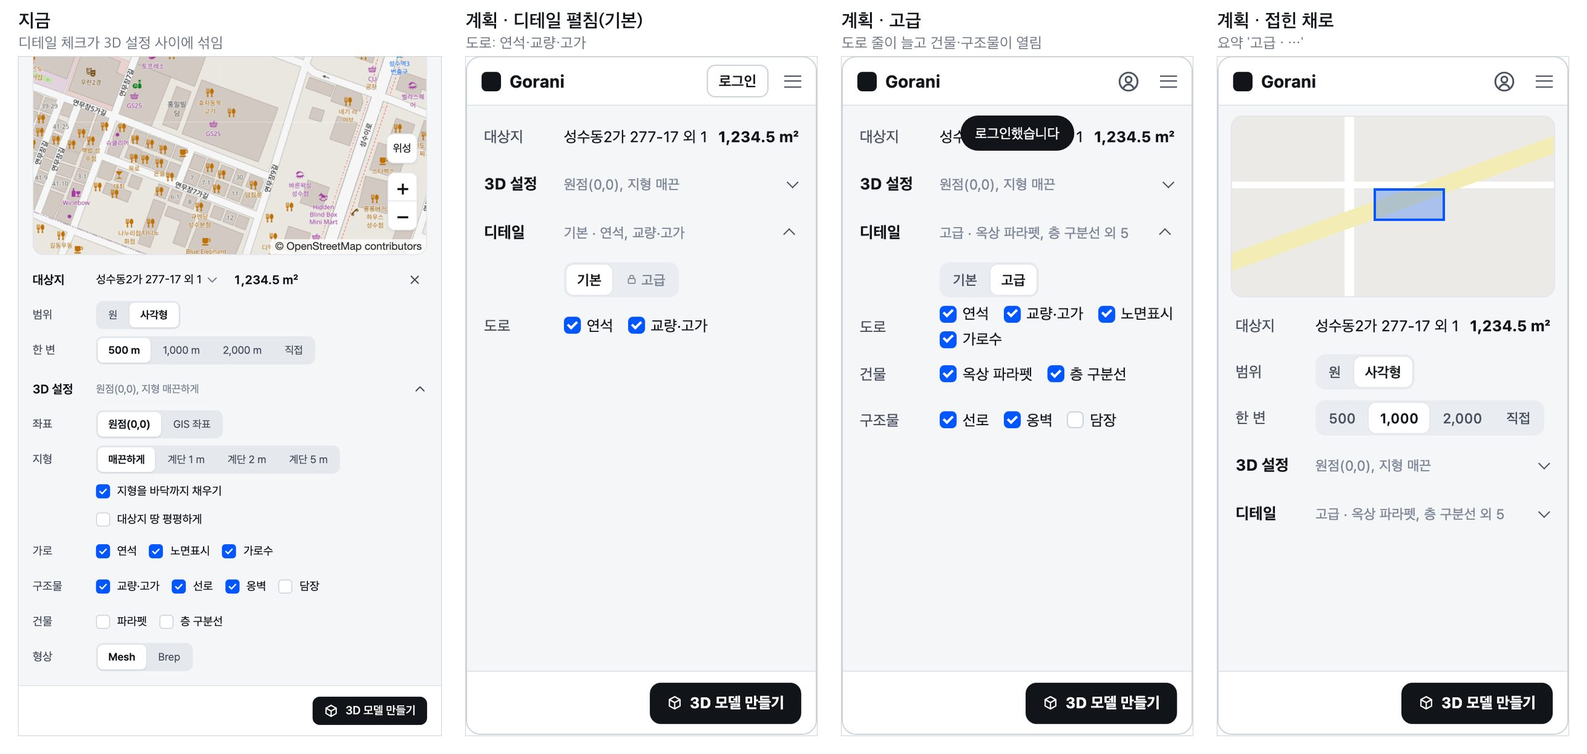
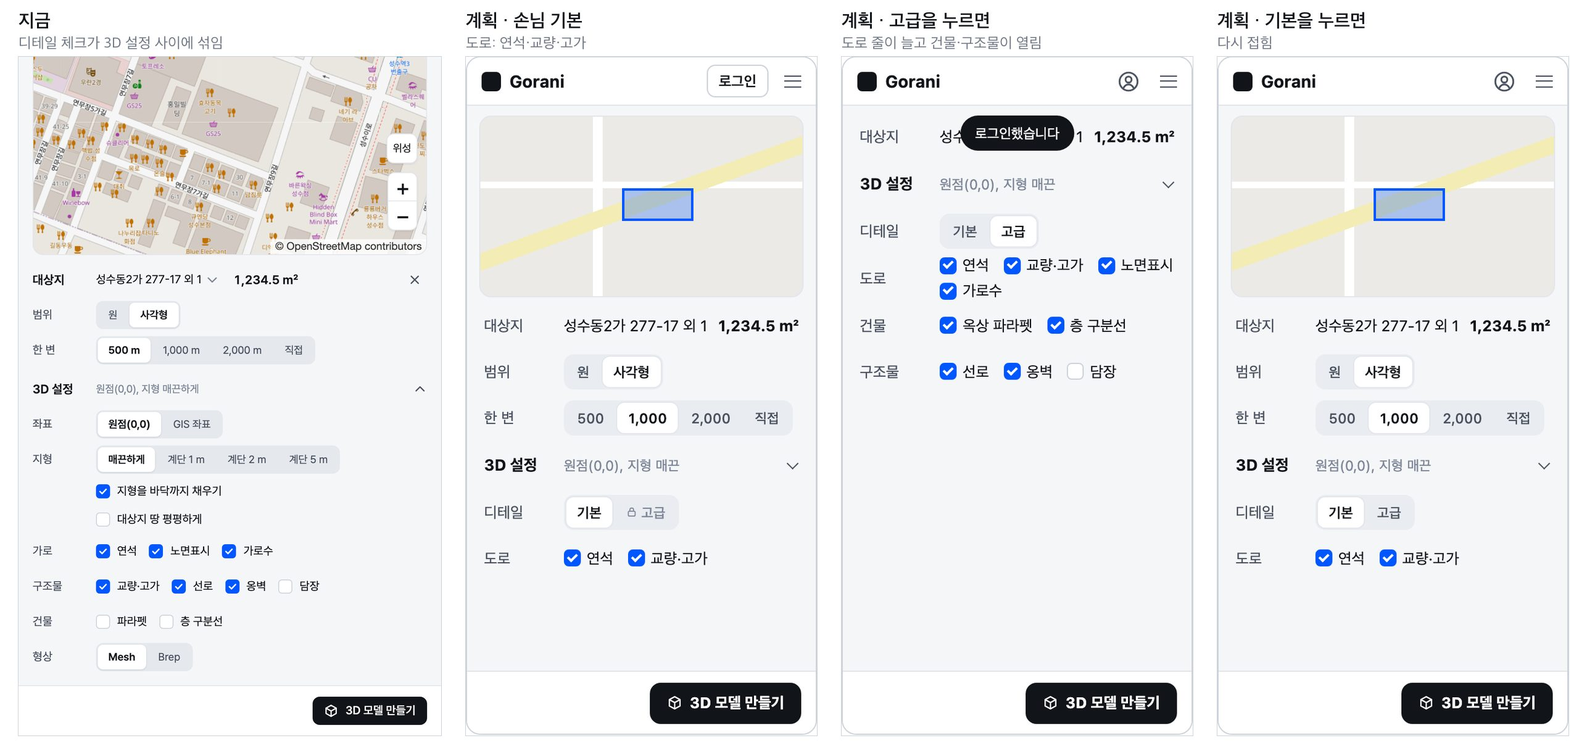
docs: 회원 계획 — 디테일 [기본 | 고급] 단추 자체가 펼치기(고급이면 늘고 기본이면 접힘, 따로 접는 단추 없음), 와이어프레임 v18

diff --git a/docs/preview/account/wireframe.html b/docs/preview/account/wireframe.html
@@ -205,6 +205,17 @@
   .pn .acpop .r .m { color: #7d8798; }
   .pn .hrow .st { flex: none; width: 26px; height: 26px; display: inline-grid; place-items: center; color: #aab2bd; font-size: 16px; }
   .pn .hrow .st.on { color: #111418; }
+</style><style>
+  .pn .hd .login.off { color: #aab2bd; border-color: #e3e6eb; }
+  .pn .hd .acct { width: 26px; height: 26px; display: inline-grid; place-items: center; color: #4a5260; margin-right: 6px; border-radius: 7px; }
+  .pn .hd .acct.on { background: #e9ecf0; color: #111418; }
+  .pn .acpop { position: absolute; right: 40px; top: 38px; width: 220px; background: #fff; border: 1px solid #e3e6eb; border-radius: 12px; box-shadow: 0 8px 24px rgba(0,0,0,.12); padding: 4px 0; z-index: 4; font-size: 12.5px; }
+  .pn .acpop .r { display: flex; align-items: center; gap: 8px; min-height: 38px; padding: 0 12px; }
+  .pn .acpop .r + .r { border-top: 1px solid #e3e6eb; }
+  .pn .acpop .r .v { flex: 1; min-width: 0; overflow: hidden; text-overflow: ellipsis; white-space: nowrap; }
+  .pn .acpop .r .m { color: #7d8798; }
+  .pn .hrow .st { flex: none; width: 26px; height: 26px; display: inline-grid; place-items: center; color: #aab2bd; font-size: 16px; }
+  .pn .hrow .st.on { color: #111418; }
 </style></head>
 <body>
 <svg width="0" height="0" style="position:absolute">
@@ -213,4 +224,4 @@
   <symbol id="cube" viewBox="0 0 16 16"><path d="M8 1.8l5.4 3v6.4L8 14.2l-5.4-3V4.8z M2.6 4.8L8 7.8l5.4-3 M8 7.8v6.4" fill="none" stroke="currentColor" stroke-width="1.4" stroke-linejoin="round"/></symbol>
 </svg>
 
-<h1>Gorani 회원·고급 디테일 — 와이어프레임 v17</h1><p class="lead">꾸밈과 안내 문구 없이 지금 패널의 줄·단추 꼴만 씁니다. 손님은 머리줄 [로그인], 회원은 그 자리에 계정 기호. 디테일은 3D 설정과 같은 접는 줄 — 펼쳐서 고급을 고르면 늘어납니다. 로딩·결과 화면은 지금 그대로.</p><h2>A. 고급 디테일</h2><div class="flow"><div class="step"><p class="cap">A1 손님 · 지도 화면</p><div class="pn"><div class="hd"><span class="logo"></span><span class="wm">Gorani</span><span class="login">로그인</span><span class="burger"></span></div><div class="map"><i></i></div><div class="tray" style="padding-top:4px"><div class="trow"><span class="lbl">대상지</span><span class="val">성수동2가 277-17 외 1</span><span class="area">1,234.5 m²</span></div><div class="trow"><span class="lbl">범위</span><span class="seg"><b>원</b><b class="on">사각형</b></span></div><div class="trow"><span class="lbl">한 변</span><span class="seg"><b>500</b><b class="on">1,000</b><b>2,000</b><b>직접</b></span></div><div class="sec"><span class="t">3D 설정</span><span class="s">원점(0,0), 지형 매끈</span><span class="chev"></span></div><div class="sec"><span class="t">디테일</span><span class="s">기본 · 연석, 교량·고가</span><span class="chev"></span></div></div><div class="foot"><span class="mk"><svg width="13" height="13"><use href="#cube"/></svg>3D 모델 만들기</span></div></div><p class="note">3D 설정 아래 '디테일'도 같은 접는 줄. 접힌 채로 지금 단계와 항목이 보입니다.</p></div><div class="step"><p class="cap">A2 디테일 펼침 · 손님</p><div class="pn"><div class="hd"><span class="logo"></span><span class="wm">Gorani</span><span class="login">로그인</span><span class="burger"></span></div><div class="tray" style="padding-top:6px"><div class="trow"><span class="lbl">대상지</span><span class="val">성수동2가 277-17 외 1</span><span class="area">1,234.5 m²</span></div><div class="sec"><span class="t">3D 설정</span><span class="s">원점(0,0), 지형 매끈</span><span class="chev"></span></div><div class="sec"><span class="t">디테일</span><span class="s">기본 · 연석, 교량·고가</span><span class="chev up"></span></div><div class="trow"><span class="lbl"></span><span class="seg"><b class="on">기본</b><b class="lkd"><svg width="10" height="10"><use href="#lock"/></svg>고급</b></span></div><div class="trow"><span class="lbl">도로</span><span class="chks"><span class="ck"><span class="box on"></span>연석</span><span class="ck"><span class="box on"></span>교량·고가</span></span></div></div><div class="foot"><span class="mk"><svg width="13" height="13"><use href="#cube"/></svg>3D 모델 만들기</span></div></div><p class="note">[기본 | 고급]과 도로(연석·교량·고가). 손님은 고급에 자물쇠만.</p></div><div class="step"><p class="cap">A3 고급(또는 머리줄 로그인)을 누르면</p><div class="pn"><div class="hd"><span class="logo"></span><span class="wm">Gorani</span><span class="login">로그인</span><span class="burger"></span></div><div class="tray" style="padding-top:6px"><div class="trow"><span class="lbl">대상지</span><span class="val">성수동2가 277-17 외 1</span><span class="area">1,234.5 m²</span></div><div class="sec"><span class="t">3D 설정</span><span class="s">원점(0,0), 지형 매끈</span><span class="chev"></span></div><div class="sec"><span class="t">디테일</span><span class="s">기본 · 연석, 교량·고가</span><span class="chev up"></span></div><div class="trow"><span class="lbl"></span><span class="seg"><b class="on">기본</b><b class="lkd"><svg width="10" height="10"><use href="#lock"/></svg>고급</b></span></div><div class="trow"><span class="lbl">도로</span><span class="chks"><span class="ck"><span class="box on"></span>연석</span><span class="ck"><span class="box on"></span>교량·고가</span></span></div></div><div class="foot"><span class="mk"><svg width="13" height="13"><use href="#cube"/></svg>3D 모델 만들기</span></div><div class="veil"><div class="dlg min"><span class="x">✕</span><h4>로그인</h4><div class="pbtn"><span class="gg"></span>구글로 로그인</div><div class="sbtn">로그인 없이 써 보기 (3회)</div></div></div></div><p class="note">로그인 창. 두 번째 단추는 고급에서 열었을 때만.</p></div><div class="step"><p class="cap">A4 브라우저에서 로그인</p><div class="pn"><div class="hd"><span class="logo"></span><span class="wm">Gorani</span><span class="login">로그인</span><span class="burger"></span></div><div class="tray" style="padding-top:6px"><div class="trow"><span class="lbl">대상지</span><span class="val">성수동2가 277-17 외 1</span><span class="area">1,234.5 m²</span></div><div class="sec"><span class="t">3D 설정</span><span class="s">원점(0,0), 지형 매끈</span><span class="chev"></span></div><div class="sec"><span class="t">디테일</span><span class="s">기본 · 연석, 교량·고가</span><span class="chev up"></span></div><div class="trow"><span class="lbl"></span><span class="seg"><b class="on">기본</b><b class="lkd"><svg width="10" height="10"><use href="#lock"/></svg>고급</b></span></div><div class="trow"><span class="lbl">도로</span><span class="chks"><span class="ck"><span class="box on"></span>연석</span><span class="ck"><span class="box on"></span>교량·고가</span></span></div></div><div class="foot"><span class="mk"><svg width="13" height="13"><use href="#cube"/></svg>3D 모델 만들기</span></div><div class="veil"><div class="dlg min" style="text-align:center"><div class="spin"></div><h4 style="margin:0 0 4px">브라우저에서 로그인 중</h4><div class="sbtn">취소</div></div></div></div><p class="note">로그인은 브라우저가 합니다.</p></div><div class="step"><p class="cap">A5 돌아오면 — 고급으로 늘어남</p><div class="pn"><div class="hd"><span class="logo"></span><span class="wm">Gorani</span><span class="acct"><svg width="18" height="18" viewBox="0 0 16 16" fill="none" stroke="currentColor" stroke-width="1.3"><circle cx="8" cy="8" r="6.6"/><circle cx="8" cy="6.5" r="2.2"/><path d="M4.4 12.4c.9-1.5 2.1-2.3 3.6-2.3s2.7.8 3.6 2.3" stroke-linecap="round"/></svg></span><span class="burger"></span></div><div class="tray" style="padding-top:6px"><div class="trow"><span class="lbl">대상지</span><span class="val">성수동2가 277-17 외 1</span><span class="area">1,234.5 m²</span></div><div class="sec"><span class="t">3D 설정</span><span class="s">원점(0,0), 지형 매끈</span><span class="chev"></span></div><div class="sec"><span class="t">디테일</span><span class="s">고급 · 옥상 파라펫, 층 구분선 외 5</span><span class="chev up"></span></div><div class="trow"><span class="lbl"></span><span class="seg"><b>기본</b><b class="on">고급</b></span></div><div class="trow"><span class="lbl">도로</span><span class="chks"><span class="ck"><span class="box on"></span>연석</span><span class="ck"><span class="box on"></span>교량·고가</span><span class="ck"><span class="box on"></span>노면표시</span><span class="ck"><span class="box on"></span>가로수</span></span></div><div class="trow"><span class="lbl">건물</span><span class="chks"><span class="ck"><span class="box on"></span>옥상 파라펫</span><span class="ck"><span class="box on"></span>층 구분선</span></span></div><div class="trow"><span class="lbl">구조물</span><span class="chks"><span class="ck"><span class="box on"></span>선로</span><span class="ck"><span class="box on"></span>옹벽</span><span class="ck"><span class="box"></span>담장</span></span></div></div><div class="foot"><span class="mk"><svg width="13" height="13"><use href="#cube"/></svg>3D 모델 만들기</span></div><div class="toast">로그인했습니다</div></div><p class="note">도로 줄에 노면표시·가로수가 붙고 건물·구조물 줄이 아래로 열립니다.</p></div><div class="step"><p class="cap">A6 회원 · 기본으로 펼침</p><div class="pn"><div class="hd"><span class="logo"></span><span class="wm">Gorani</span><span class="acct"><svg width="18" height="18" viewBox="0 0 16 16" fill="none" stroke="currentColor" stroke-width="1.3"><circle cx="8" cy="8" r="6.6"/><circle cx="8" cy="6.5" r="2.2"/><path d="M4.4 12.4c.9-1.5 2.1-2.3 3.6-2.3s2.7.8 3.6 2.3" stroke-linecap="round"/></svg></span><span class="burger"></span></div><div class="tray" style="padding-top:6px"><div class="trow"><span class="lbl">대상지</span><span class="val">성수동2가 277-17 외 1</span><span class="area">1,234.5 m²</span></div><div class="sec"><span class="t">3D 설정</span><span class="s">원점(0,0), 지형 매끈</span><span class="chev"></span></div><div class="sec"><span class="t">디테일</span><span class="s">기본 · 연석, 교량·고가</span><span class="chev up"></span></div><div class="trow"><span class="lbl"></span><span class="seg"><b class="on">기본</b><b>고급</b></span></div><div class="trow"><span class="lbl">도로</span><span class="chks"><span class="ck"><span class="box on"></span>연석</span><span class="ck"><span class="box on"></span>교량·고가</span></span></div></div><div class="foot"><span class="mk"><svg width="13" height="13"><use href="#cube"/></svg>3D 모델 만들기</span></div></div><p class="note">기본을 고르면 도로(연석·교량·고가)만 남습니다.</p></div><div class="step"><p class="cap">A7 회원 · 접힌 채로</p><div class="pn"><div class="hd"><span class="logo"></span><span class="wm">Gorani</span><span class="acct"><svg width="18" height="18" viewBox="0 0 16 16" fill="none" stroke="currentColor" stroke-width="1.3"><circle cx="8" cy="8" r="6.6"/><circle cx="8" cy="6.5" r="2.2"/><path d="M4.4 12.4c.9-1.5 2.1-2.3 3.6-2.3s2.7.8 3.6 2.3" stroke-linecap="round"/></svg></span><span class="burger"></span></div><div class="map"><i></i></div><div class="tray" style="padding-top:4px"><div class="trow"><span class="lbl">대상지</span><span class="val">성수동2가 277-17 외 1</span><span class="area">1,234.5 m²</span></div><div class="trow"><span class="lbl">범위</span><span class="seg"><b>원</b><b class="on">사각형</b></span></div><div class="trow"><span class="lbl">한 변</span><span class="seg"><b>500</b><b class="on">1,000</b><b>2,000</b><b>직접</b></span></div><div class="sec"><span class="t">3D 설정</span><span class="s">원점(0,0), 지형 매끈</span><span class="chev"></span></div><div class="sec"><span class="t">디테일</span><span class="s">고급 · 옥상 파라펫, 층 구분선 외 5</span><span class="chev"></span></div></div><div class="foot"><span class="mk"><svg width="13" height="13"><use href="#cube"/></svg>3D 모델 만들기</span></div></div><p class="note">접어도 요약에 '고급 · …'.</p></div></div><h2>B. 처음 만들기·로딩·완료</h2><div class="flow"><div class="step"><p class="cap">B1 처음 [3D 모델 만들기] (한 번만)</p><div class="pn"><div class="hd"><span class="logo"></span><span class="wm">Gorani</span><span class="login">로그인</span><span class="burger"></span></div><div class="map"><i></i></div><div class="tray" style="padding-top:4px"><div class="trow"><span class="lbl">대상지</span><span class="val">성수동2가 277-17 외 1</span><span class="area">1,234.5 m²</span></div><div class="trow"><span class="lbl">범위</span><span class="seg"><b>원</b><b class="on">사각형</b></span></div><div class="trow"><span class="lbl">한 변</span><span class="seg"><b>500</b><b class="on">1,000</b><b>2,000</b><b>직접</b></span></div><div class="sec"><span class="t">3D 설정</span><span class="s">원점(0,0), 지형 매끈</span><span class="chev"></span></div><div class="sec"><span class="t">디테일</span><span class="s">기본 · 연석, 교량·고가</span><span class="chev"></span></div></div><div class="foot"><span class="mk"><svg width="13" height="13"><use href="#cube"/></svg>3D 모델 만들기</span></div><div class="veil"><div class="dlg min"><span class="x">✕</span><h4>로그인</h4><div class="pbtn"><span class="gg"></span>구글로 로그인</div><div class="sbtn">로그인 없이 만들기</div></div></div></div><p class="note">같은 로그인 창. 고르면 바로 만듭니다.</p></div><div class="step"><p class="cap">B2 로딩 · 지금 화면 그대로</p><div class="pn"><div class="hd"><span class="logo"></span><span class="wm">Gorani</span><span class="login off">로그인</span><span class="burger"></span></div><div class="runcard"><div class="top"><h4>3D 모델 만드는 중</h4><span class="cancel"><i></i>취소</span></div><div class="meta">성수동2가 277-17 외 1, 1,234.5 m², 사각형 한 변 2,000 m · 기본</div><div class="trk"><div class="fl" style="width:50%"></div><span class="rn" style="left:calc((100% - 48px) * 0.5)"><svg xmlns="http://www.w3.org/2000/svg" width="48" height="36" viewBox="0 0 64 48"><g fill="none" stroke="currentColor" stroke-linecap="round" stroke-linejoin="round"><path d="M21.00 25.60L15.89 34.19" stroke-width="5"/><path d="M15.89 34.19L2.92 35.15" stroke-width="2.6"/><path d="M41.00 27.60L46.03 35.06" stroke-width="3.6"/><path d="M46.03 35.06L52.74 45.01" stroke-width="2.4"/><path d="M21.00 25.60L14.84 33.48" stroke-width="5"/><path d="M14.84 33.48L2.97 38.77" stroke-width="2.6"/><path d="M41.00 27.60L47.02 34.29" stroke-width="3.6"/><path d="M47.02 34.29L55.05 43.21" stroke-width="2.4"/></g><g fill="currentColor" transform="translate(0 1.60)"><path d="M13 21C13 14 20 11 27 13C33 15 39 17 44 19C49 21 49 29 43 30.5C35 32 26 31 19 29.5C15 28.5 13 25 13 21Z"/><path d="M40 21C43 15 47 11 51 9L56 13C52 17 48 23 46 29Z"/><path d="M49 7C53 4.5 58 6.5 62 11C63.5 13 62.5 15 60.5 15H54C50.5 15 48 11.5 49 7Z"/><path d="M51 8C49 3 45.5 0 42 0.5C42 4 45 8 49.5 11Z"/><path d="M14 17C12 14.5 11 12.5 11.5 11C13.5 12 15 14 16 16Z"/></g></svg></span></div><div class="pm"><span><b>50</b> %</span><span>0:14</span></div><ul class="ph"><li><span class="okk">✓</span>건물과 지형 불러오기<span class="det">건물 1,842동</span></li><li class="run"><span class="dot"></span>3D 모델 만들기</li><li class="pend"><span class="ring"></span>Rhino 파일에 넣기</li></ul><div class="rnote">Rhino 안에서 만들어 Rhino 화면이 잠깐씩 멈출 수 있습니다.</div></div><div class="logline">▸ 로그 자세히 보기 (1줄)</div></div><p class="note">만드는 동안 패널은 엔진을 기다려 다른 단추를 받지 않습니다 — 머리줄 [로그인]도 잠깁니다.</p></div><div class="step"><p class="cap">B3 생성 완료 — 지금과 같음</p><div class="pn"><div class="hd"><span class="logo"></span><span class="wm">Gorani</span><span class="login">로그인</span><span class="burger"></span></div><div class="card2"><h4>3D 모델 생성 완료 <span class="m">0:08</span><span class="sp"></span><span class="btnw" style="margin:0">폴더 열기</span></h4><div class="m">성수동2가 277-17 외 1, 1,234.5 m²</div></div><div class="card2"><h4>2D 자료도 만들까요?<span class="sp"></span><span class="btnw" style="margin:0">2D 자료 만들기</span></h4><div class="opt2"><span>▢</span><span>베이스맵<small>Illustrator 레이어 도면 (.ai)</small></span></div><div class="opt2"><span>▦</span><span>다이어그램<small>현황도와 분석도 (.svg, .ai)</small></span></div><div class="opt2"><span>▤</span><span>조서<small>필지와 건축물 표 (엑셀 CSV)</small></span></div></div></div><p class="note">결과 화면은 그대로. 손님이면 머리줄 [로그인]만.</p></div></div><h2>C. 생성 기록 — 회원만</h2><div class="flow"><div class="step"><p class="cap">C1 손님 · 지도(대상지 없음)</p><div class="pn"><div class="hd"><span class="logo"></span><span class="wm">Gorani</span><span class="login">로그인</span><span class="burger"></span></div><div class="map"></div><div class="tray"><div class="rech">최근 결과<span class="sp"></span></div><div class="rec"><span class="nm">성수동2가 277-17 외 1</span><span class="mt">3D, 2D · 11-14</span></div><div class="rec"><span class="nm">을지로3가 구역</span><span class="mt">3D · 11-14</span></div><div class="rec"><span class="nm">Shibuya, Tokyo</span><span class="mt">3D · 11-10</span></div></div><div class="foot"><span class="mk" style="opacity:.45"><svg width="13" height="13"><use href="#cube"/></svg>3D 모델 만들기</span></div></div><p class="note">손님에게는 생성 기록이 없습니다. '최근 결과'(지금 기능)는 그대로.</p></div><div class="step"><p class="cap">C2 회원 · 지도(대상지 없음)</p><div class="pn"><div class="hd"><span class="logo"></span><span class="wm">Gorani</span><span class="acct"><svg width="18" height="18" viewBox="0 0 16 16" fill="none" stroke="currentColor" stroke-width="1.3"><circle cx="8" cy="8" r="6.6"/><circle cx="8" cy="6.5" r="2.2"/><path d="M4.4 12.4c.9-1.5 2.1-2.3 3.6-2.3s2.7.8 3.6 2.3" stroke-linecap="round"/></svg></span><span class="burger"></span></div><div class="map"></div><div class="tray"><div class="rech">최근 결과<span class="sp"></span><a>생성 기록 ›</a></div><div class="rec"><span class="nm">성수동2가 277-17 외 1</span><span class="mt">3D, 2D · 11-14</span></div><div class="rec"><span class="nm">을지로3가 구역</span><span class="mt">3D · 11-14</span></div><div class="rec"><span class="nm">Shibuya, Tokyo</span><span class="mt">3D · 11-10</span></div></div><div class="foot"><span class="mk" style="opacity:.45"><svg width="13" height="13"><use href="#cube"/></svg>3D 모델 만들기</span></div></div><p class="note">회원에게만 '생성 기록 ›'.</p></div><div class="step"><p class="cap">C3 회원 · 생성 기록</p><div class="pn"><div class="hd"><span class="logo"></span><span class="wm">Gorani</span><span class="acct"><svg width="18" height="18" viewBox="0 0 16 16" fill="none" stroke="currentColor" stroke-width="1.3"><circle cx="8" cy="8" r="6.6"/><circle cx="8" cy="6.5" r="2.2"/><path d="M4.4 12.4c.9-1.5 2.1-2.3 3.6-2.3s2.7.8 3.6 2.3" stroke-linecap="round"/></svg></span><span class="burger"></span></div><div class="scr"><span class="back">← 지도로</span><span class="ttl">생성 기록</span></div><div class="segw" style="margin-top:10px"><span class="seg"><b class="on">전체</b><b>★</b></span></div><div class="grpd">오늘</div><div class="hrow"><span class="th"><i></i></span><span class="tx"><div class="nm">성수동2가 277-17 외 1</div><div class="mt">15:02 · 사각형 1 km · 고급</div></span><span class="st on">★</span></div><div class="hrow"><span class="th"><i></i></span><span class="tx"><div class="nm">을지로3가 구역</div><div class="mt">11:40 · 사각형 2 km · 기본</div></span><span class="st">☆</span></div><div class="grpd">이번 주</div><div class="hrow"><span class="th"><i></i></span><span class="tx"><div class="nm">연남동 239-5</div><div class="mt">11-09 · 원 500 m · 고급</div></span><span class="st">☆</span></div><div class="hrow"><span class="th"><i></i></span><span class="tx"><div class="nm">Shibuya, Tokyo</div><div class="mt">11-10 · 사각형 1 km · 기본</div></span><span class="st on">★</span></div></div><p class="note">검색 없음. 기록마다 오른쪽 ☆로 즐겨찾기, 위 [전체 | ★]로 거르기. PC 구분 없이 아이디 하나에 모은 기록.</p></div></div><h2>D. 계정</h2><div class="flow"><div class="step"><p class="cap">D1 회원 · 계정 기호를 누르면</p><div class="pn"><div class="hd"><span class="logo"></span><span class="wm">Gorani</span><span class="acct on"><svg width="18" height="18" viewBox="0 0 16 16" fill="none" stroke="currentColor" stroke-width="1.3"><circle cx="8" cy="8" r="6.6"/><circle cx="8" cy="6.5" r="2.2"/><path d="M4.4 12.4c.9-1.5 2.1-2.3 3.6-2.3s2.7.8 3.6 2.3" stroke-linecap="round"/></svg></span><span class="burger"></span></div><div class="map"><i></i></div><div class="tray" style="padding-top:4px"><div class="trow"><span class="lbl">대상지</span><span class="val">성수동2가 277-17 외 1</span><span class="area">1,234.5 m²</span></div><div class="trow"><span class="lbl">범위</span><span class="seg"><b>원</b><b class="on">사각형</b></span></div><div class="trow"><span class="lbl">한 변</span><span class="seg"><b>500</b><b class="on">1,000</b><b>2,000</b><b>직접</b></span></div><div class="sec"><span class="t">3D 설정</span><span class="s">원점(0,0), 지형 매끈</span><span class="chev"></span></div><div class="sec"><span class="t">디테일</span><span class="s">고급 · 옥상 파라펫, 층 구분선 외 5</span><span class="chev"></span></div></div><div class="foot"><span class="mk"><svg width="13" height="13"><use href="#cube"/></svg>3D 모델 만들기</span></div><div class="acpop"><div class="r"><span class="v">name@gmail.com</span><span class="btnw" style="margin:0">로그아웃</span></div><div class="r"><span class="v">생성 기록</span><span class="m">23 ›</span></div></div></div><p class="note">메일·[로그아웃]과 생성 기록. 더보기 메뉴(설정·도움)는 지금과 같습니다.</p></div></div></body></html>
+<h1>Gorani 회원·고급 디테일 — 와이어프레임 v18</h1><p class="lead">꾸밈과 안내 문구 없이 지금 패널의 줄·단추 꼴만 씁니다. 손님은 머리줄 [로그인], 회원은 그 자리에 계정 기호. 디테일 줄은 [기본 | 고급] 단추 그 자체 — 고급을 고르면 늘어나고 기본을 고르면 접힙니다. 로딩·결과 화면은 지금 그대로.</p><h2>A. 고급 디테일</h2><div class="flow"><div class="step"><p class="cap">A1 손님 · 지도 화면</p><div class="pn"><div class="hd"><span class="logo"></span><span class="wm">Gorani</span><span class="login">로그인</span><span class="burger"></span></div><div class="map"><i></i></div><div class="tray" style="padding-top:4px"><div class="trow"><span class="lbl">대상지</span><span class="val">성수동2가 277-17 외 1</span><span class="area">1,234.5 m²</span></div><div class="trow"><span class="lbl">범위</span><span class="seg"><b>원</b><b class="on">사각형</b></span></div><div class="trow"><span class="lbl">한 변</span><span class="seg"><b>500</b><b class="on">1,000</b><b>2,000</b><b>직접</b></span></div><div class="sec"><span class="t">3D 설정</span><span class="s">원점(0,0), 지형 매끈</span><span class="chev"></span></div><div class="trow"><span class="lbl">디테일</span><span class="seg"><b class="on">기본</b><b class="lkd"><svg width="10" height="10"><use href="#lock"/></svg>고급</b></span></div><div class="trow"><span class="lbl">도로</span><span class="chks"><span class="ck"><span class="box on"></span>연석</span><span class="ck"><span class="box on"></span>교량·고가</span></span></div></div><div class="foot"><span class="mk"><svg width="13" height="13"><use href="#cube"/></svg>3D 모델 만들기</span></div></div><p class="note">디테일 줄 = [기본 | 고급] 단추 그 자체. 기본이면 도로(연석·교량·고가)만. 손님은 고급에 자물쇠.</p></div><div class="step"><p class="cap">A2 고급(또는 머리줄 로그인)을 누르면</p><div class="pn"><div class="hd"><span class="logo"></span><span class="wm">Gorani</span><span class="login">로그인</span><span class="burger"></span></div><div class="map"><i></i></div><div class="tray" style="padding-top:4px"><div class="trow"><span class="lbl">대상지</span><span class="val">성수동2가 277-17 외 1</span><span class="area">1,234.5 m²</span></div><div class="trow"><span class="lbl">범위</span><span class="seg"><b>원</b><b class="on">사각형</b></span></div><div class="trow"><span class="lbl">한 변</span><span class="seg"><b>500</b><b class="on">1,000</b><b>2,000</b><b>직접</b></span></div><div class="sec"><span class="t">3D 설정</span><span class="s">원점(0,0), 지형 매끈</span><span class="chev"></span></div><div class="trow"><span class="lbl">디테일</span><span class="seg"><b class="on">기본</b><b class="lkd"><svg width="10" height="10"><use href="#lock"/></svg>고급</b></span></div><div class="trow"><span class="lbl">도로</span><span class="chks"><span class="ck"><span class="box on"></span>연석</span><span class="ck"><span class="box on"></span>교량·고가</span></span></div></div><div class="foot"><span class="mk"><svg width="13" height="13"><use href="#cube"/></svg>3D 모델 만들기</span></div><div class="veil"><div class="dlg min"><span class="x">✕</span><h4>로그인</h4><div class="pbtn"><span class="gg"></span>구글로 로그인</div><div class="sbtn">로그인 없이 써 보기 (3회)</div></div></div></div><p class="note">로그인 창. 두 번째 단추는 고급에서 열었을 때만.</p></div><div class="step"><p class="cap">A3 브라우저에서 로그인</p><div class="pn"><div class="hd"><span class="logo"></span><span class="wm">Gorani</span><span class="login">로그인</span><span class="burger"></span></div><div class="map"><i></i></div><div class="tray" style="padding-top:4px"><div class="trow"><span class="lbl">대상지</span><span class="val">성수동2가 277-17 외 1</span><span class="area">1,234.5 m²</span></div><div class="trow"><span class="lbl">범위</span><span class="seg"><b>원</b><b class="on">사각형</b></span></div><div class="trow"><span class="lbl">한 변</span><span class="seg"><b>500</b><b class="on">1,000</b><b>2,000</b><b>직접</b></span></div><div class="sec"><span class="t">3D 설정</span><span class="s">원점(0,0), 지형 매끈</span><span class="chev"></span></div><div class="trow"><span class="lbl">디테일</span><span class="seg"><b class="on">기본</b><b class="lkd"><svg width="10" height="10"><use href="#lock"/></svg>고급</b></span></div><div class="trow"><span class="lbl">도로</span><span class="chks"><span class="ck"><span class="box on"></span>연석</span><span class="ck"><span class="box on"></span>교량·고가</span></span></div></div><div class="foot"><span class="mk"><svg width="13" height="13"><use href="#cube"/></svg>3D 모델 만들기</span></div><div class="veil"><div class="dlg min" style="text-align:center"><div class="spin"></div><h4 style="margin:0 0 4px">브라우저에서 로그인 중</h4><div class="sbtn">취소</div></div></div></div><p class="note">로그인은 브라우저가 합니다.</p></div><div class="step"><p class="cap">A4 돌아오면 — 고급으로 늘어남</p><div class="pn"><div class="hd"><span class="logo"></span><span class="wm">Gorani</span><span class="acct"><svg width="18" height="18" viewBox="0 0 16 16" fill="none" stroke="currentColor" stroke-width="1.3"><circle cx="8" cy="8" r="6.6"/><circle cx="8" cy="6.5" r="2.2"/><path d="M4.4 12.4c.9-1.5 2.1-2.3 3.6-2.3s2.7.8 3.6 2.3" stroke-linecap="round"/></svg></span><span class="burger"></span></div><div class="tray" style="padding-top:6px"><div class="trow"><span class="lbl">대상지</span><span class="val">성수동2가 277-17 외 1</span><span class="area">1,234.5 m²</span></div><div class="sec"><span class="t">3D 설정</span><span class="s">원점(0,0), 지형 매끈</span><span class="chev"></span></div><div class="trow"><span class="lbl">디테일</span><span class="seg"><b>기본</b><b class="on">고급</b></span></div><div class="trow"><span class="lbl">도로</span><span class="chks"><span class="ck"><span class="box on"></span>연석</span><span class="ck"><span class="box on"></span>교량·고가</span><span class="ck"><span class="box on"></span>노면표시</span><span class="ck"><span class="box on"></span>가로수</span></span></div><div class="trow"><span class="lbl">건물</span><span class="chks"><span class="ck"><span class="box on"></span>옥상 파라펫</span><span class="ck"><span class="box on"></span>층 구분선</span></span></div><div class="trow"><span class="lbl">구조물</span><span class="chks"><span class="ck"><span class="box on"></span>선로</span><span class="ck"><span class="box on"></span>옹벽</span><span class="ck"><span class="box"></span>담장</span></span></div></div><div class="foot"><span class="mk"><svg width="13" height="13"><use href="#cube"/></svg>3D 모델 만들기</span></div><div class="toast">로그인했습니다</div></div><p class="note">고급이 눌리면 도로 줄에 노면표시·가로수가 붙고 건물·구조물 줄이 아래로 열립니다(트레이는 지금처럼 스크롤).</p></div><div class="step"><p class="cap">A5 회원 · 기본을 누르면 접힘</p><div class="pn"><div class="hd"><span class="logo"></span><span class="wm">Gorani</span><span class="acct"><svg width="18" height="18" viewBox="0 0 16 16" fill="none" stroke="currentColor" stroke-width="1.3"><circle cx="8" cy="8" r="6.6"/><circle cx="8" cy="6.5" r="2.2"/><path d="M4.4 12.4c.9-1.5 2.1-2.3 3.6-2.3s2.7.8 3.6 2.3" stroke-linecap="round"/></svg></span><span class="burger"></span></div><div class="map"><i></i></div><div class="tray" style="padding-top:4px"><div class="trow"><span class="lbl">대상지</span><span class="val">성수동2가 277-17 외 1</span><span class="area">1,234.5 m²</span></div><div class="trow"><span class="lbl">범위</span><span class="seg"><b>원</b><b class="on">사각형</b></span></div><div class="trow"><span class="lbl">한 변</span><span class="seg"><b>500</b><b class="on">1,000</b><b>2,000</b><b>직접</b></span></div><div class="sec"><span class="t">3D 설정</span><span class="s">원점(0,0), 지형 매끈</span><span class="chev"></span></div><div class="trow"><span class="lbl">디테일</span><span class="seg"><b class="on">기본</b><b>고급</b></span></div><div class="trow"><span class="lbl">도로</span><span class="chks"><span class="ck"><span class="box on"></span>연석</span><span class="ck"><span class="box on"></span>교량·고가</span></span></div></div><div class="foot"><span class="mk"><svg width="13" height="13"><use href="#cube"/></svg>3D 모델 만들기</span></div></div><p class="note">기본 = 접힌 상태. 따로 펼치기 단추가 없습니다.</p></div></div><h2>B. 처음 만들기·로딩·완료</h2><div class="flow"><div class="step"><p class="cap">B1 처음 [3D 모델 만들기] (한 번만)</p><div class="pn"><div class="hd"><span class="logo"></span><span class="wm">Gorani</span><span class="login">로그인</span><span class="burger"></span></div><div class="map"><i></i></div><div class="tray" style="padding-top:4px"><div class="trow"><span class="lbl">대상지</span><span class="val">성수동2가 277-17 외 1</span><span class="area">1,234.5 m²</span></div><div class="trow"><span class="lbl">범위</span><span class="seg"><b>원</b><b class="on">사각형</b></span></div><div class="trow"><span class="lbl">한 변</span><span class="seg"><b>500</b><b class="on">1,000</b><b>2,000</b><b>직접</b></span></div><div class="sec"><span class="t">3D 설정</span><span class="s">원점(0,0), 지형 매끈</span><span class="chev"></span></div><div class="trow"><span class="lbl">디테일</span><span class="seg"><b class="on">기본</b><b class="lkd"><svg width="10" height="10"><use href="#lock"/></svg>고급</b></span></div><div class="trow"><span class="lbl">도로</span><span class="chks"><span class="ck"><span class="box on"></span>연석</span><span class="ck"><span class="box on"></span>교량·고가</span></span></div></div><div class="foot"><span class="mk"><svg width="13" height="13"><use href="#cube"/></svg>3D 모델 만들기</span></div><div class="veil"><div class="dlg min"><span class="x">✕</span><h4>로그인</h4><div class="pbtn"><span class="gg"></span>구글로 로그인</div><div class="sbtn">로그인 없이 만들기</div></div></div></div><p class="note">같은 로그인 창. 고르면 바로 만듭니다.</p></div><div class="step"><p class="cap">B2 로딩 · 지금 화면 그대로</p><div class="pn"><div class="hd"><span class="logo"></span><span class="wm">Gorani</span><span class="login off">로그인</span><span class="burger"></span></div><div class="runcard"><div class="top"><h4>3D 모델 만드는 중</h4><span class="cancel"><i></i>취소</span></div><div class="meta">성수동2가 277-17 외 1, 1,234.5 m², 사각형 한 변 2,000 m · 기본</div><div class="trk"><div class="fl" style="width:50%"></div><span class="rn" style="left:calc((100% - 48px) * 0.5)"><svg xmlns="http://www.w3.org/2000/svg" width="48" height="36" viewBox="0 0 64 48"><g fill="none" stroke="currentColor" stroke-linecap="round" stroke-linejoin="round"><path d="M21.00 25.60L15.89 34.19" stroke-width="5"/><path d="M15.89 34.19L2.92 35.15" stroke-width="2.6"/><path d="M41.00 27.60L46.03 35.06" stroke-width="3.6"/><path d="M46.03 35.06L52.74 45.01" stroke-width="2.4"/><path d="M21.00 25.60L14.84 33.48" stroke-width="5"/><path d="M14.84 33.48L2.97 38.77" stroke-width="2.6"/><path d="M41.00 27.60L47.02 34.29" stroke-width="3.6"/><path d="M47.02 34.29L55.05 43.21" stroke-width="2.4"/></g><g fill="currentColor" transform="translate(0 1.60)"><path d="M13 21C13 14 20 11 27 13C33 15 39 17 44 19C49 21 49 29 43 30.5C35 32 26 31 19 29.5C15 28.5 13 25 13 21Z"/><path d="M40 21C43 15 47 11 51 9L56 13C52 17 48 23 46 29Z"/><path d="M49 7C53 4.5 58 6.5 62 11C63.5 13 62.5 15 60.5 15H54C50.5 15 48 11.5 49 7Z"/><path d="M51 8C49 3 45.5 0 42 0.5C42 4 45 8 49.5 11Z"/><path d="M14 17C12 14.5 11 12.5 11.5 11C13.5 12 15 14 16 16Z"/></g></svg></span></div><div class="pm"><span><b>50</b> %</span><span>0:14</span></div><ul class="ph"><li><span class="okk">✓</span>건물과 지형 불러오기<span class="det">건물 1,842동</span></li><li class="run"><span class="dot"></span>3D 모델 만들기</li><li class="pend"><span class="ring"></span>Rhino 파일에 넣기</li></ul><div class="rnote">Rhino 안에서 만들어 Rhino 화면이 잠깐씩 멈출 수 있습니다.</div></div><div class="logline">▸ 로그 자세히 보기 (1줄)</div></div><p class="note">만드는 동안 패널은 엔진을 기다려 다른 단추를 받지 않습니다 — 머리줄 [로그인]도 잠깁니다.</p></div><div class="step"><p class="cap">B3 생성 완료 — 지금과 같음</p><div class="pn"><div class="hd"><span class="logo"></span><span class="wm">Gorani</span><span class="login">로그인</span><span class="burger"></span></div><div class="card2"><h4>3D 모델 생성 완료 <span class="m">0:08</span><span class="sp"></span><span class="btnw" style="margin:0">폴더 열기</span></h4><div class="m">성수동2가 277-17 외 1, 1,234.5 m²</div></div><div class="card2"><h4>2D 자료도 만들까요?<span class="sp"></span><span class="btnw" style="margin:0">2D 자료 만들기</span></h4><div class="opt2"><span>▢</span><span>베이스맵<small>Illustrator 레이어 도면 (.ai)</small></span></div><div class="opt2"><span>▦</span><span>다이어그램<small>현황도와 분석도 (.svg, .ai)</small></span></div><div class="opt2"><span>▤</span><span>조서<small>필지와 건축물 표 (엑셀 CSV)</small></span></div></div></div><p class="note">결과 화면은 그대로. 손님이면 머리줄 [로그인]만.</p></div></div><h2>C. 생성 기록 — 회원만</h2><div class="flow"><div class="step"><p class="cap">C1 손님 · 지도(대상지 없음)</p><div class="pn"><div class="hd"><span class="logo"></span><span class="wm">Gorani</span><span class="login">로그인</span><span class="burger"></span></div><div class="map"></div><div class="tray"><div class="rech">최근 결과<span class="sp"></span></div><div class="rec"><span class="nm">성수동2가 277-17 외 1</span><span class="mt">3D, 2D · 11-14</span></div><div class="rec"><span class="nm">을지로3가 구역</span><span class="mt">3D · 11-14</span></div><div class="rec"><span class="nm">Shibuya, Tokyo</span><span class="mt">3D · 11-10</span></div></div><div class="foot"><span class="mk" style="opacity:.45"><svg width="13" height="13"><use href="#cube"/></svg>3D 모델 만들기</span></div></div><p class="note">손님에게는 생성 기록이 없습니다. '최근 결과'(지금 기능)는 그대로.</p></div><div class="step"><p class="cap">C2 회원 · 지도(대상지 없음)</p><div class="pn"><div class="hd"><span class="logo"></span><span class="wm">Gorani</span><span class="acct"><svg width="18" height="18" viewBox="0 0 16 16" fill="none" stroke="currentColor" stroke-width="1.3"><circle cx="8" cy="8" r="6.6"/><circle cx="8" cy="6.5" r="2.2"/><path d="M4.4 12.4c.9-1.5 2.1-2.3 3.6-2.3s2.7.8 3.6 2.3" stroke-linecap="round"/></svg></span><span class="burger"></span></div><div class="map"></div><div class="tray"><div class="rech">최근 결과<span class="sp"></span><a>생성 기록 ›</a></div><div class="rec"><span class="nm">성수동2가 277-17 외 1</span><span class="mt">3D, 2D · 11-14</span></div><div class="rec"><span class="nm">을지로3가 구역</span><span class="mt">3D · 11-14</span></div><div class="rec"><span class="nm">Shibuya, Tokyo</span><span class="mt">3D · 11-10</span></div></div><div class="foot"><span class="mk" style="opacity:.45"><svg width="13" height="13"><use href="#cube"/></svg>3D 모델 만들기</span></div></div><p class="note">회원에게만 '생성 기록 ›'.</p></div><div class="step"><p class="cap">C3 회원 · 생성 기록</p><div class="pn"><div class="hd"><span class="logo"></span><span class="wm">Gorani</span><span class="acct"><svg width="18" height="18" viewBox="0 0 16 16" fill="none" stroke="currentColor" stroke-width="1.3"><circle cx="8" cy="8" r="6.6"/><circle cx="8" cy="6.5" r="2.2"/><path d="M4.4 12.4c.9-1.5 2.1-2.3 3.6-2.3s2.7.8 3.6 2.3" stroke-linecap="round"/></svg></span><span class="burger"></span></div><div class="scr"><span class="back">← 지도로</span><span class="ttl">생성 기록</span></div><div class="segw" style="margin-top:10px"><span class="seg"><b class="on">전체</b><b>★</b></span></div><div class="grpd">오늘</div><div class="hrow"><span class="th"><i></i></span><span class="tx"><div class="nm">성수동2가 277-17 외 1</div><div class="mt">15:02 · 사각형 1 km · 고급</div></span><span class="st on">★</span></div><div class="hrow"><span class="th"><i></i></span><span class="tx"><div class="nm">을지로3가 구역</div><div class="mt">11:40 · 사각형 2 km · 기본</div></span><span class="st">☆</span></div><div class="grpd">이번 주</div><div class="hrow"><span class="th"><i></i></span><span class="tx"><div class="nm">연남동 239-5</div><div class="mt">11-09 · 원 500 m · 고급</div></span><span class="st">☆</span></div><div class="hrow"><span class="th"><i></i></span><span class="tx"><div class="nm">Shibuya, Tokyo</div><div class="mt">11-10 · 사각형 1 km · 기본</div></span><span class="st on">★</span></div></div><p class="note">검색 없음. 기록마다 오른쪽 ☆로 즐겨찾기, 위 [전체 | ★]로 거르기. PC 구분 없이 아이디 하나에 모은 기록.</p></div></div><h2>D. 계정</h2><div class="flow"><div class="step"><p class="cap">D1 회원 · 계정 기호를 누르면</p><div class="pn"><div class="hd"><span class="logo"></span><span class="wm">Gorani</span><span class="acct on"><svg width="18" height="18" viewBox="0 0 16 16" fill="none" stroke="currentColor" stroke-width="1.3"><circle cx="8" cy="8" r="6.6"/><circle cx="8" cy="6.5" r="2.2"/><path d="M4.4 12.4c.9-1.5 2.1-2.3 3.6-2.3s2.7.8 3.6 2.3" stroke-linecap="round"/></svg></span><span class="burger"></span></div><div class="map"><i></i></div><div class="tray" style="padding-top:4px"><div class="trow"><span class="lbl">대상지</span><span class="val">성수동2가 277-17 외 1</span><span class="area">1,234.5 m²</span></div><div class="trow"><span class="lbl">범위</span><span class="seg"><b>원</b><b class="on">사각형</b></span></div><div class="trow"><span class="lbl">한 변</span><span class="seg"><b>500</b><b class="on">1,000</b><b>2,000</b><b>직접</b></span></div><div class="sec"><span class="t">3D 설정</span><span class="s">원점(0,0), 지형 매끈</span><span class="chev"></span></div><div class="trow"><span class="lbl">디테일</span><span class="seg"><b class="on">기본</b><b>고급</b></span></div><div class="trow"><span class="lbl">도로</span><span class="chks"><span class="ck"><span class="box on"></span>연석</span><span class="ck"><span class="box on"></span>교량·고가</span></span></div></div><div class="foot"><span class="mk"><svg width="13" height="13"><use href="#cube"/></svg>3D 모델 만들기</span></div><div class="acpop"><div class="r"><span class="v">name@gmail.com</span><span class="btnw" style="margin:0">로그아웃</span></div><div class="r"><span class="v">생성 기록</span><span class="m">23 ›</span></div></div></div><p class="note">메일·[로그아웃]과 생성 기록. 더보기 메뉴(설정·도움)는 지금과 같습니다.</p></div></div></body></html>
